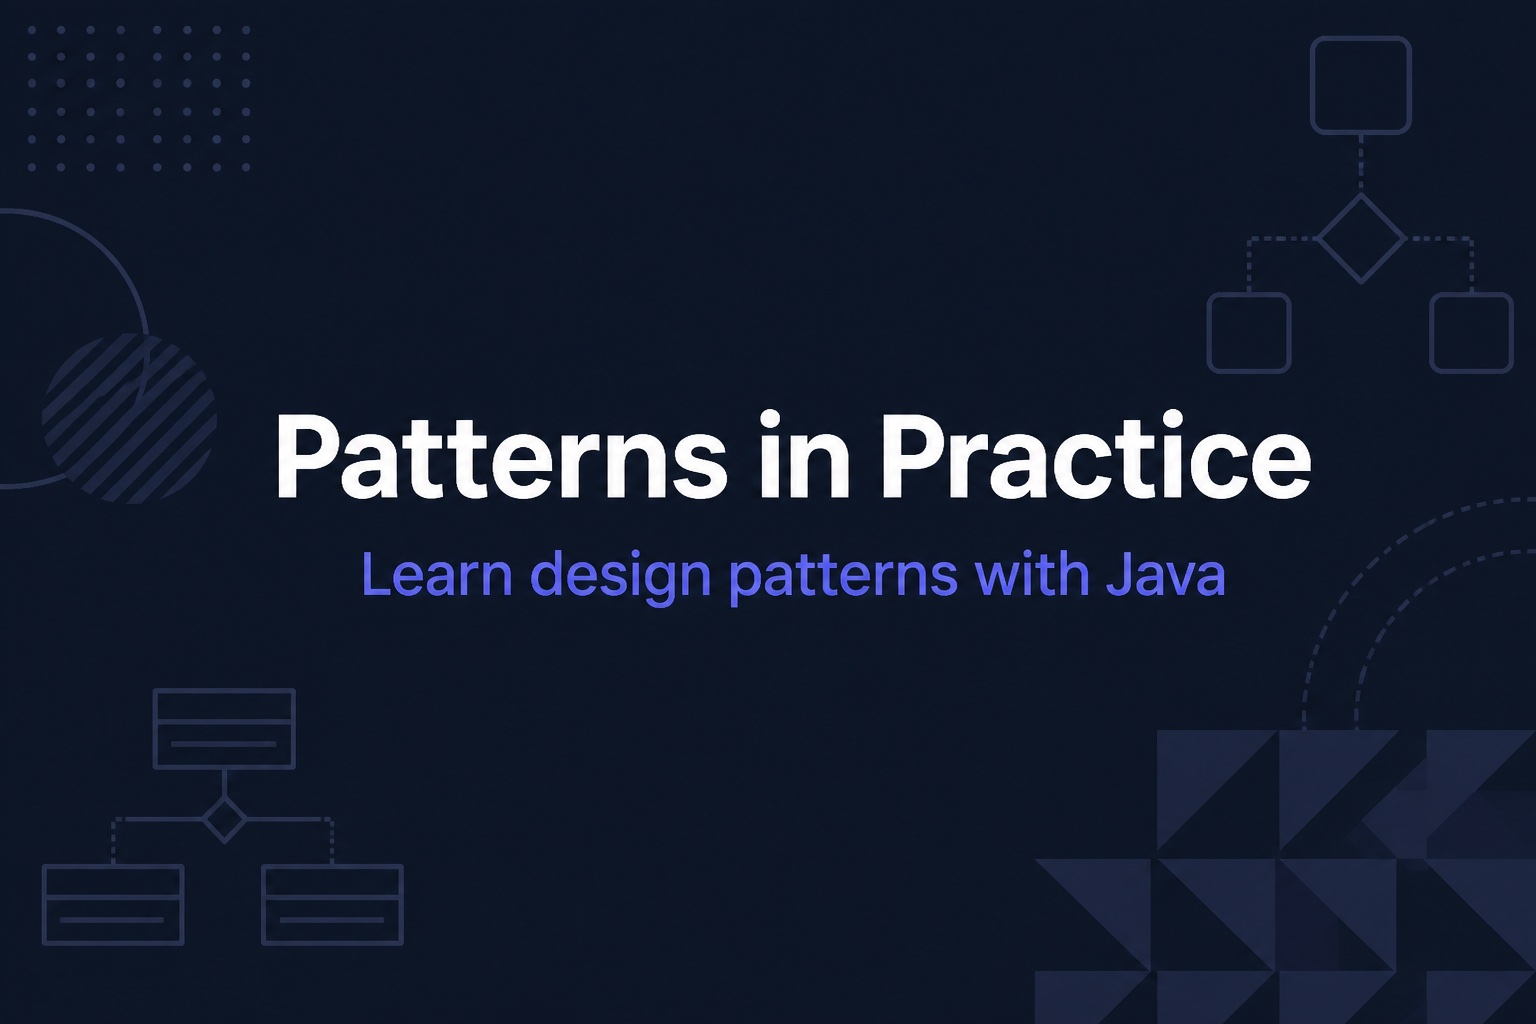
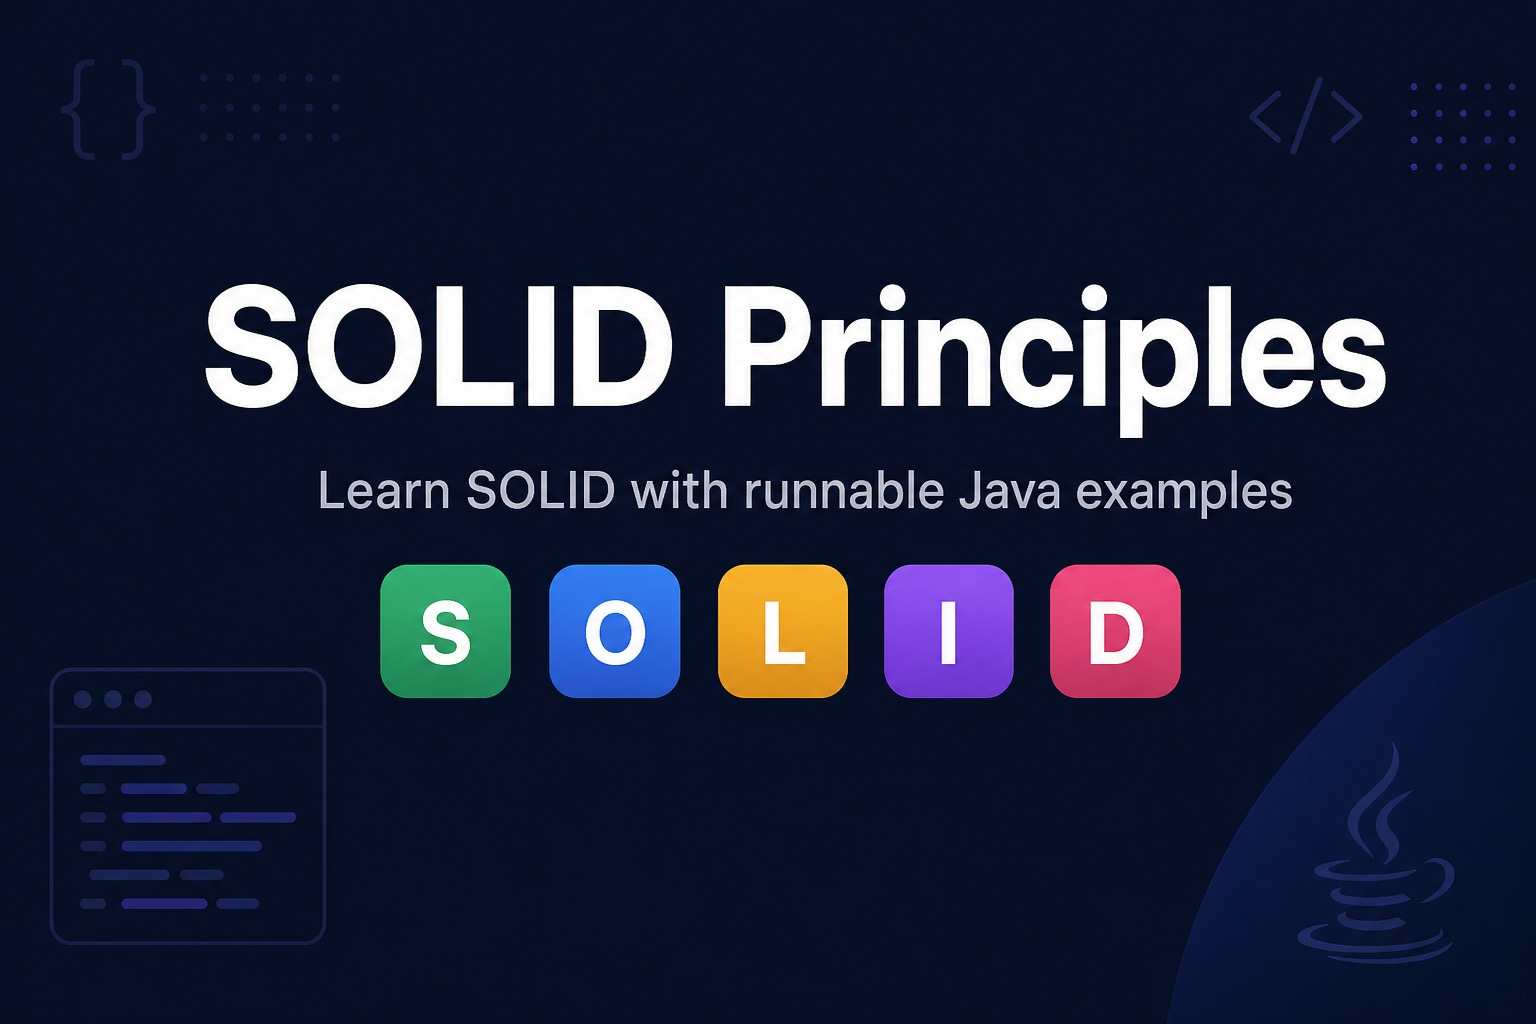
Replace stale design-patterns og-image and purge pattern branding.
New SOLID social preview image, rename Pattern* components to Principle*, add verify-branding guard so Patterns in Practice text cannot ship again.

diff --git a/src/data/principles/index.ts b/src/data/principles/index.ts
@@ -3,33 +3,22 @@ import type { Principle, PrincipleLetter } from './types';
 import { letterLabels, letterHints } from './types';
 
 export type { Principle, PrincipleLetter, QuizQuestion } from './types';
-export { letterLabels, letterHints, categoryLabels, categoryHints } from './types';
-export type { Pattern, PatternCategory } from './types';
+export { letterLabels, letterHints };
 
-/** All 5 SOLID principles in learning order (S → O → L → I → D). */
 export const principles = principlesList;
-
-/** @deprecated alias for shared components */
-export const patterns = principles;
 
 export function getPrinciple(slug: string): Principle | undefined {
   return principlesList.find((p) => p.slug === slug);
 }
 
-/** @deprecated */
-export const getPattern = getPrinciple;
-
-export { enrichPrinciple, enrichPattern } from './enrich';
-export type { EnrichedPrinciple, EnrichedPattern } from './enrich';
+export { enrichPrinciple } from './enrich';
+export type { EnrichedPrinciple } from './enrich';
 
 export interface FinderRule {
   keywords: string[];
   principleSlug: string;
   hint: string;
 }
-
-/** @deprecated */
-export type FinderRuleLegacy = FinderRule & { patternSlug: string };
 
 export const finderRules: FinderRule[] = [
   {
@@ -57,4 +46,4 @@ export const finderRules: FinderRule[] = [
     principleSlug: 'dependency-inversion',
     hint: 'Depend on abstractions; inject implementations at the edges',
   },
-].map((r) => ({ ...r, patternSlug: r.principleSlug }));
+];

diff --git a/src/data/principles/enrich.ts b/src/data/principles/enrich.ts
@@ -9,8 +9,8 @@ export interface EnrichedPrinciple extends Principle {
   problemStatement: string;
   tradeoffIntro: string;
   sceneSteps: [string, string, string];
-  withoutPatternPains: [string, string, string];
-  withPatternWins: [string, string, string];
+  withoutPrinciplePains: [string, string, string];
+  withPrincipleWins: [string, string, string];
   codeBridge: string;
   runExpect: string;
   tryItSteps: string[];
@@ -22,8 +22,6 @@ export interface EnrichedPrinciple extends Principle {
   displayCodeAfter: string;
 }
 
-/** @deprecated */
-export type EnrichedPattern = EnrichedPrinciple;
 
 function tuple3(items: string[]): [string, string, string] {
   return [items[0] ?? '', items[1] ?? '', items[2] ?? ''];
@@ -86,8 +84,8 @@ export function enrichPrinciple(principle: Principle): EnrichedPrinciple {
     problemStatement: story.problemStatement ?? principle.problem,
     tradeoffIntro,
     sceneSteps: story.scene,
-    withoutPatternPains: story.without,
-    withPatternWins: story.with,
+    withoutPrinciplePains: story.without,
+    withPrincipleWins: story.with,
     codeBridge: story.codeBridge,
     runExpect: deriveRunExpect(runDemo),
     tryItSteps: story.tryItSteps,
@@ -100,5 +98,3 @@ export function enrichPrinciple(principle: Principle): EnrichedPrinciple {
   };
 }
 
-/** @deprecated */
-export const enrichPattern = enrichPrinciple;

diff --git a/src/data/principles/types.ts b/src/data/principles/types.ts
@@ -21,9 +21,9 @@ export interface Principle {
   problem: string;
   solution: string;
   /** Plain-language pains when you violate the principle. */
-  withoutPatternPains?: string[];
+  withoutPrinciplePains?: string[];
   /** Plain-language wins when you follow the principle. */
-  withPatternWins?: string[];
+  withPrincipleWins?: string[];
   /** What to look for when comparing the two code blocks. */
   codeTakeaway?: string;
   whenToUse: string[];
@@ -54,11 +54,3 @@ export const letterHints: Record<PrincipleLetter, string> = {
   d: 'Depend on abstractions, not concretions',
 };
 
-/** @deprecated Alias for components that still reference PatternCategory */
-export type PatternCategory = PrincipleLetter;
-
-/** @deprecated Alias for components that still reference Pattern */
-export type Pattern = Principle;
-
-export const categoryLabels = letterLabels;
-export const categoryHints = letterHints;

diff --git a/src/data/principles/principle-illustrations.ts b/src/data/principles/principle-illustrations.ts
@@ -118,6 +118,3 @@ export function getIllustration(slug: string, fallbackIcon: string): { label: st
     svg: `<svg viewBox="0 0 64 64" class="w-full h-auto" aria-hidden="true"><text x="32" y="40" text-anchor="middle" font-size="28">${fallbackIcon}</text></svg>`,
   };
 }
-
-/** @deprecated */
-export const patternIllustrations = principleIllustrations;

diff --git a/src/utils/paths.ts b/src/utils/paths.ts
@@ -10,8 +10,3 @@ export function sitePath(route = ''): string {
 export function principlePath(slug: string): string {
   return sitePath(`principles/${slug}`);
 }
-
-/** @deprecated Use principlePath — kept for component compatibility during migration */
-export function patternPath(slug: string): string {
-  return principlePath(slug);
-}

diff --git a/src/data/principles/principle-stories.ts b/src/data/principles/principle-stories.ts
@@ -158,7 +158,3 @@ export const principleStories: Record<string, PrincipleStory> = {
     tryItSteps: ['Run ▶ — expect the same switch to light Philips or LED depending on injection.'],
   },
 };
-
-/** @deprecated */
-export const patternStories = principleStories;
-export type PatternStory = PrincipleStory;

diff --git a/src/data/principles/principle-code.ts b/src/data/principles/principle-code.ts
@@ -338,7 +338,3 @@ public class DipDemo {
 }`,
   ),
 };
-
-/** @deprecated */
-export const patternCode = principleCode;
-export type PatternCode = PrincipleCode;
